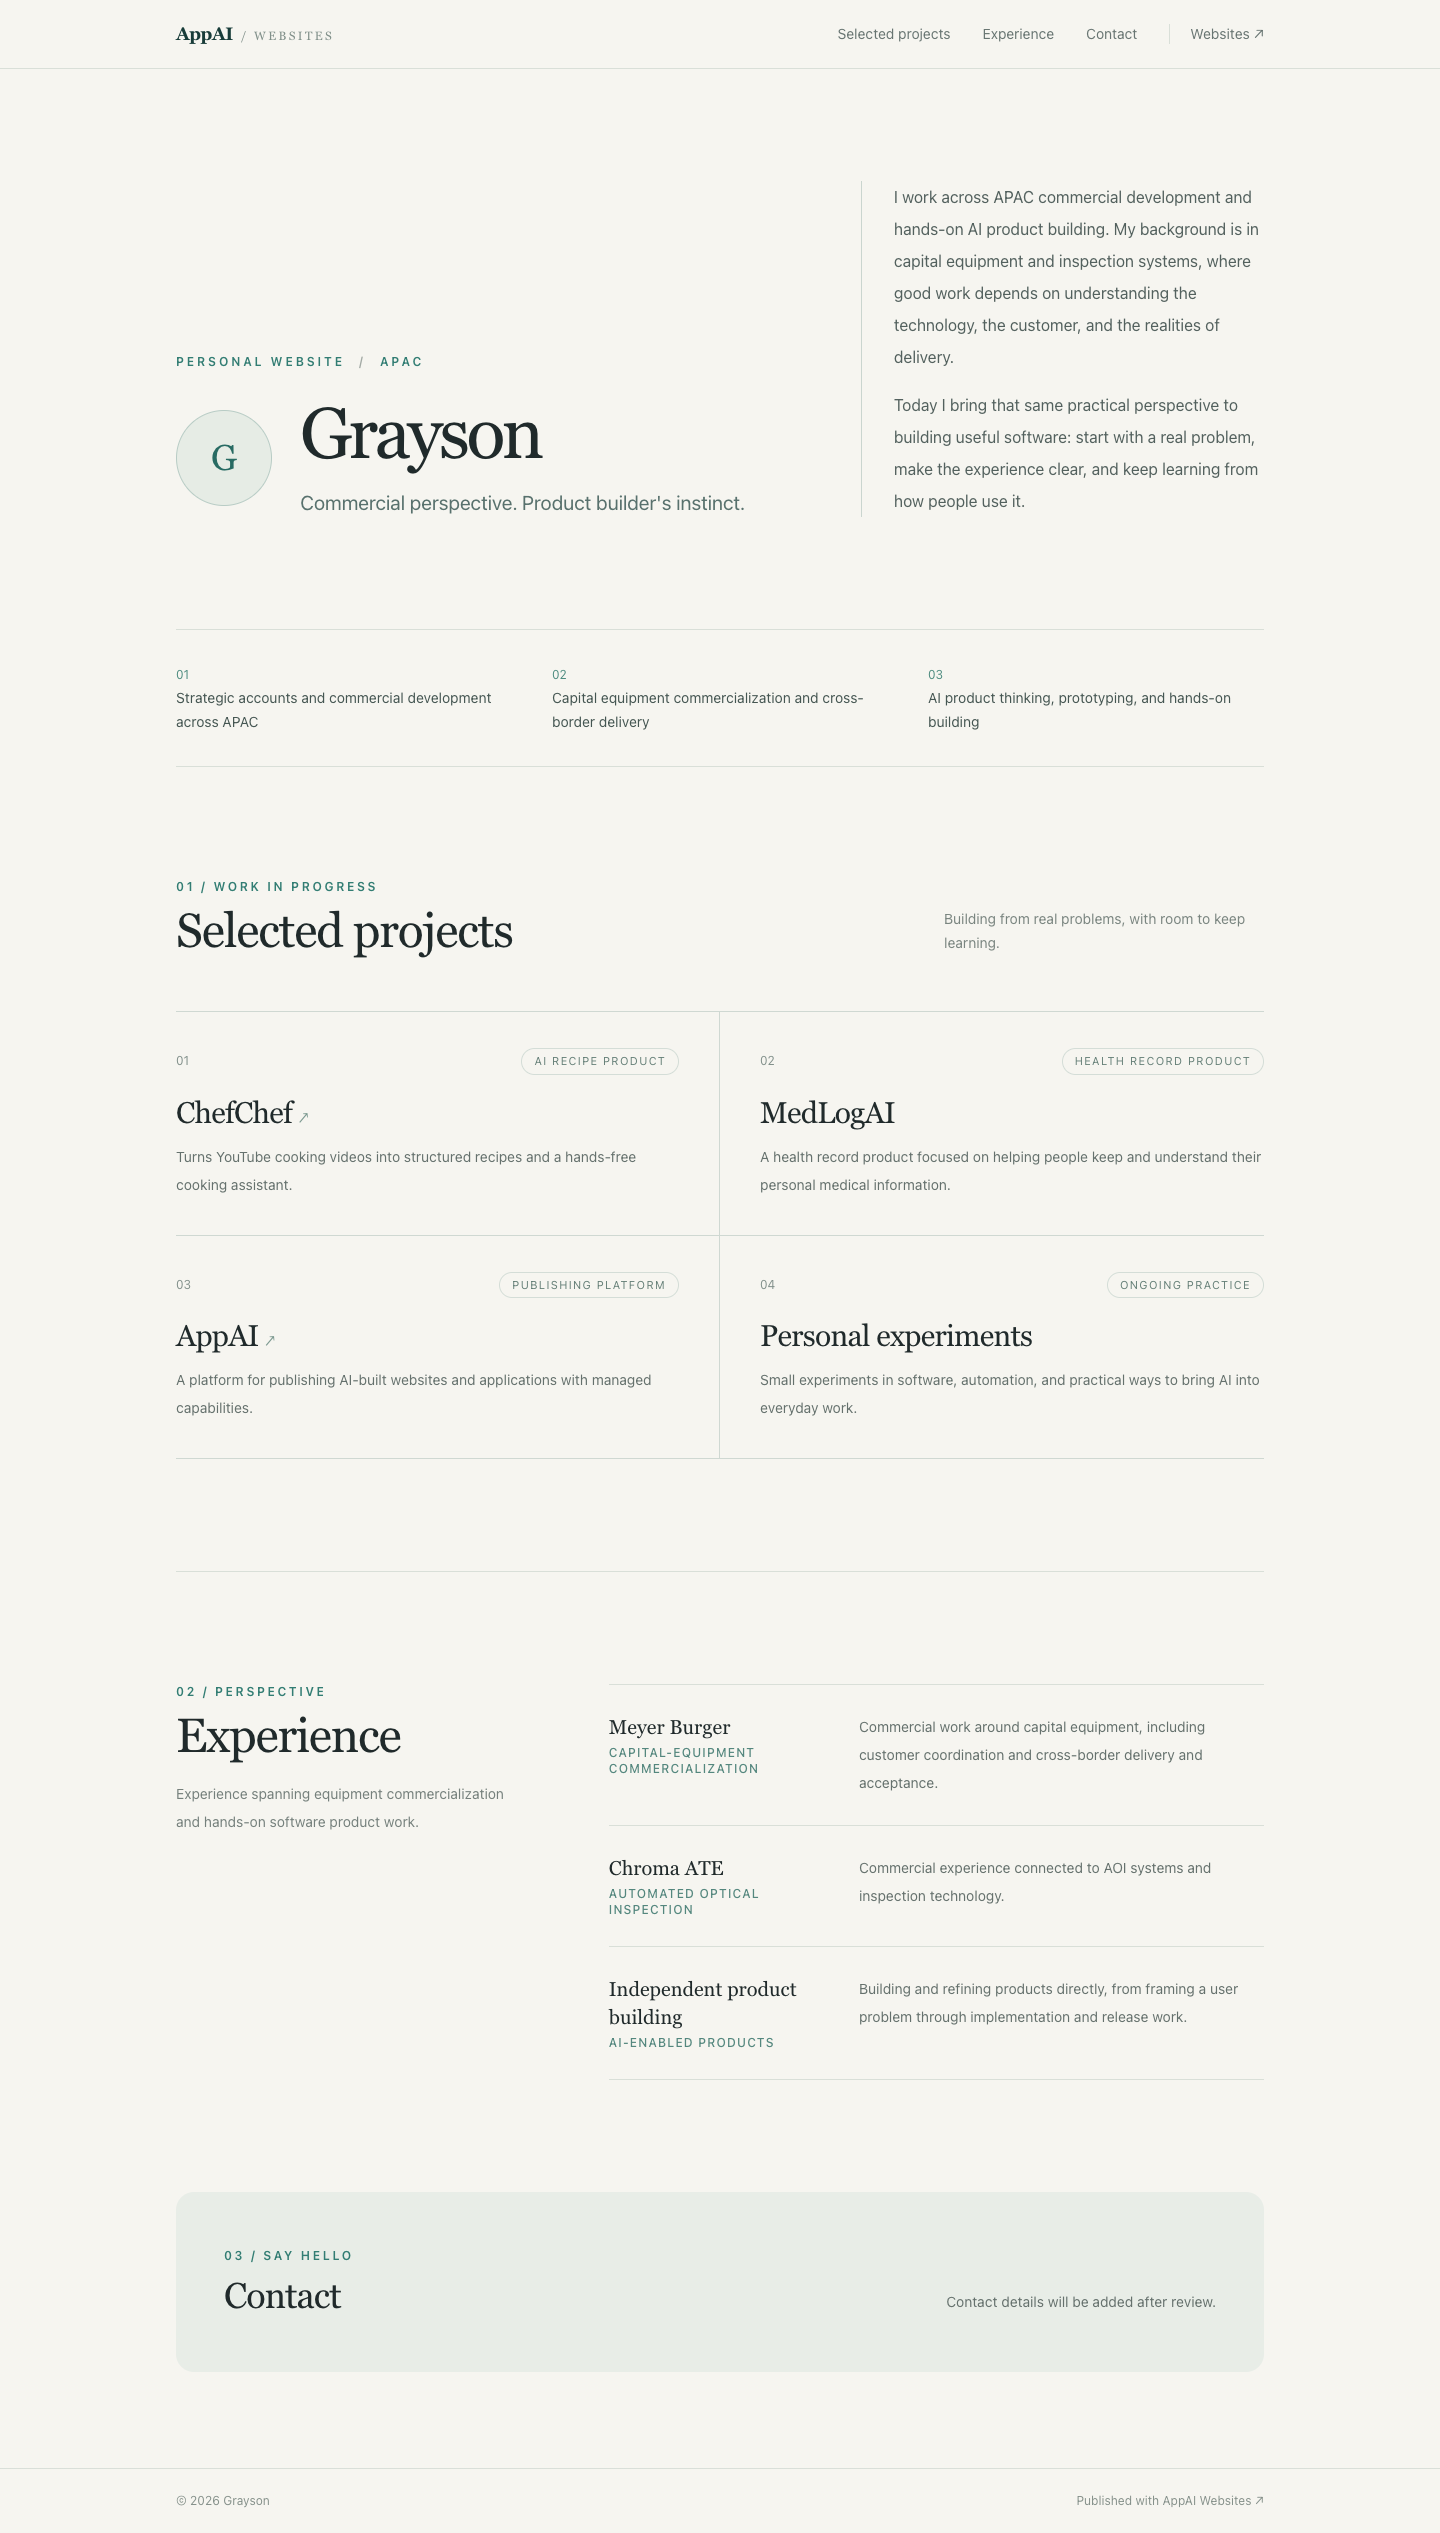
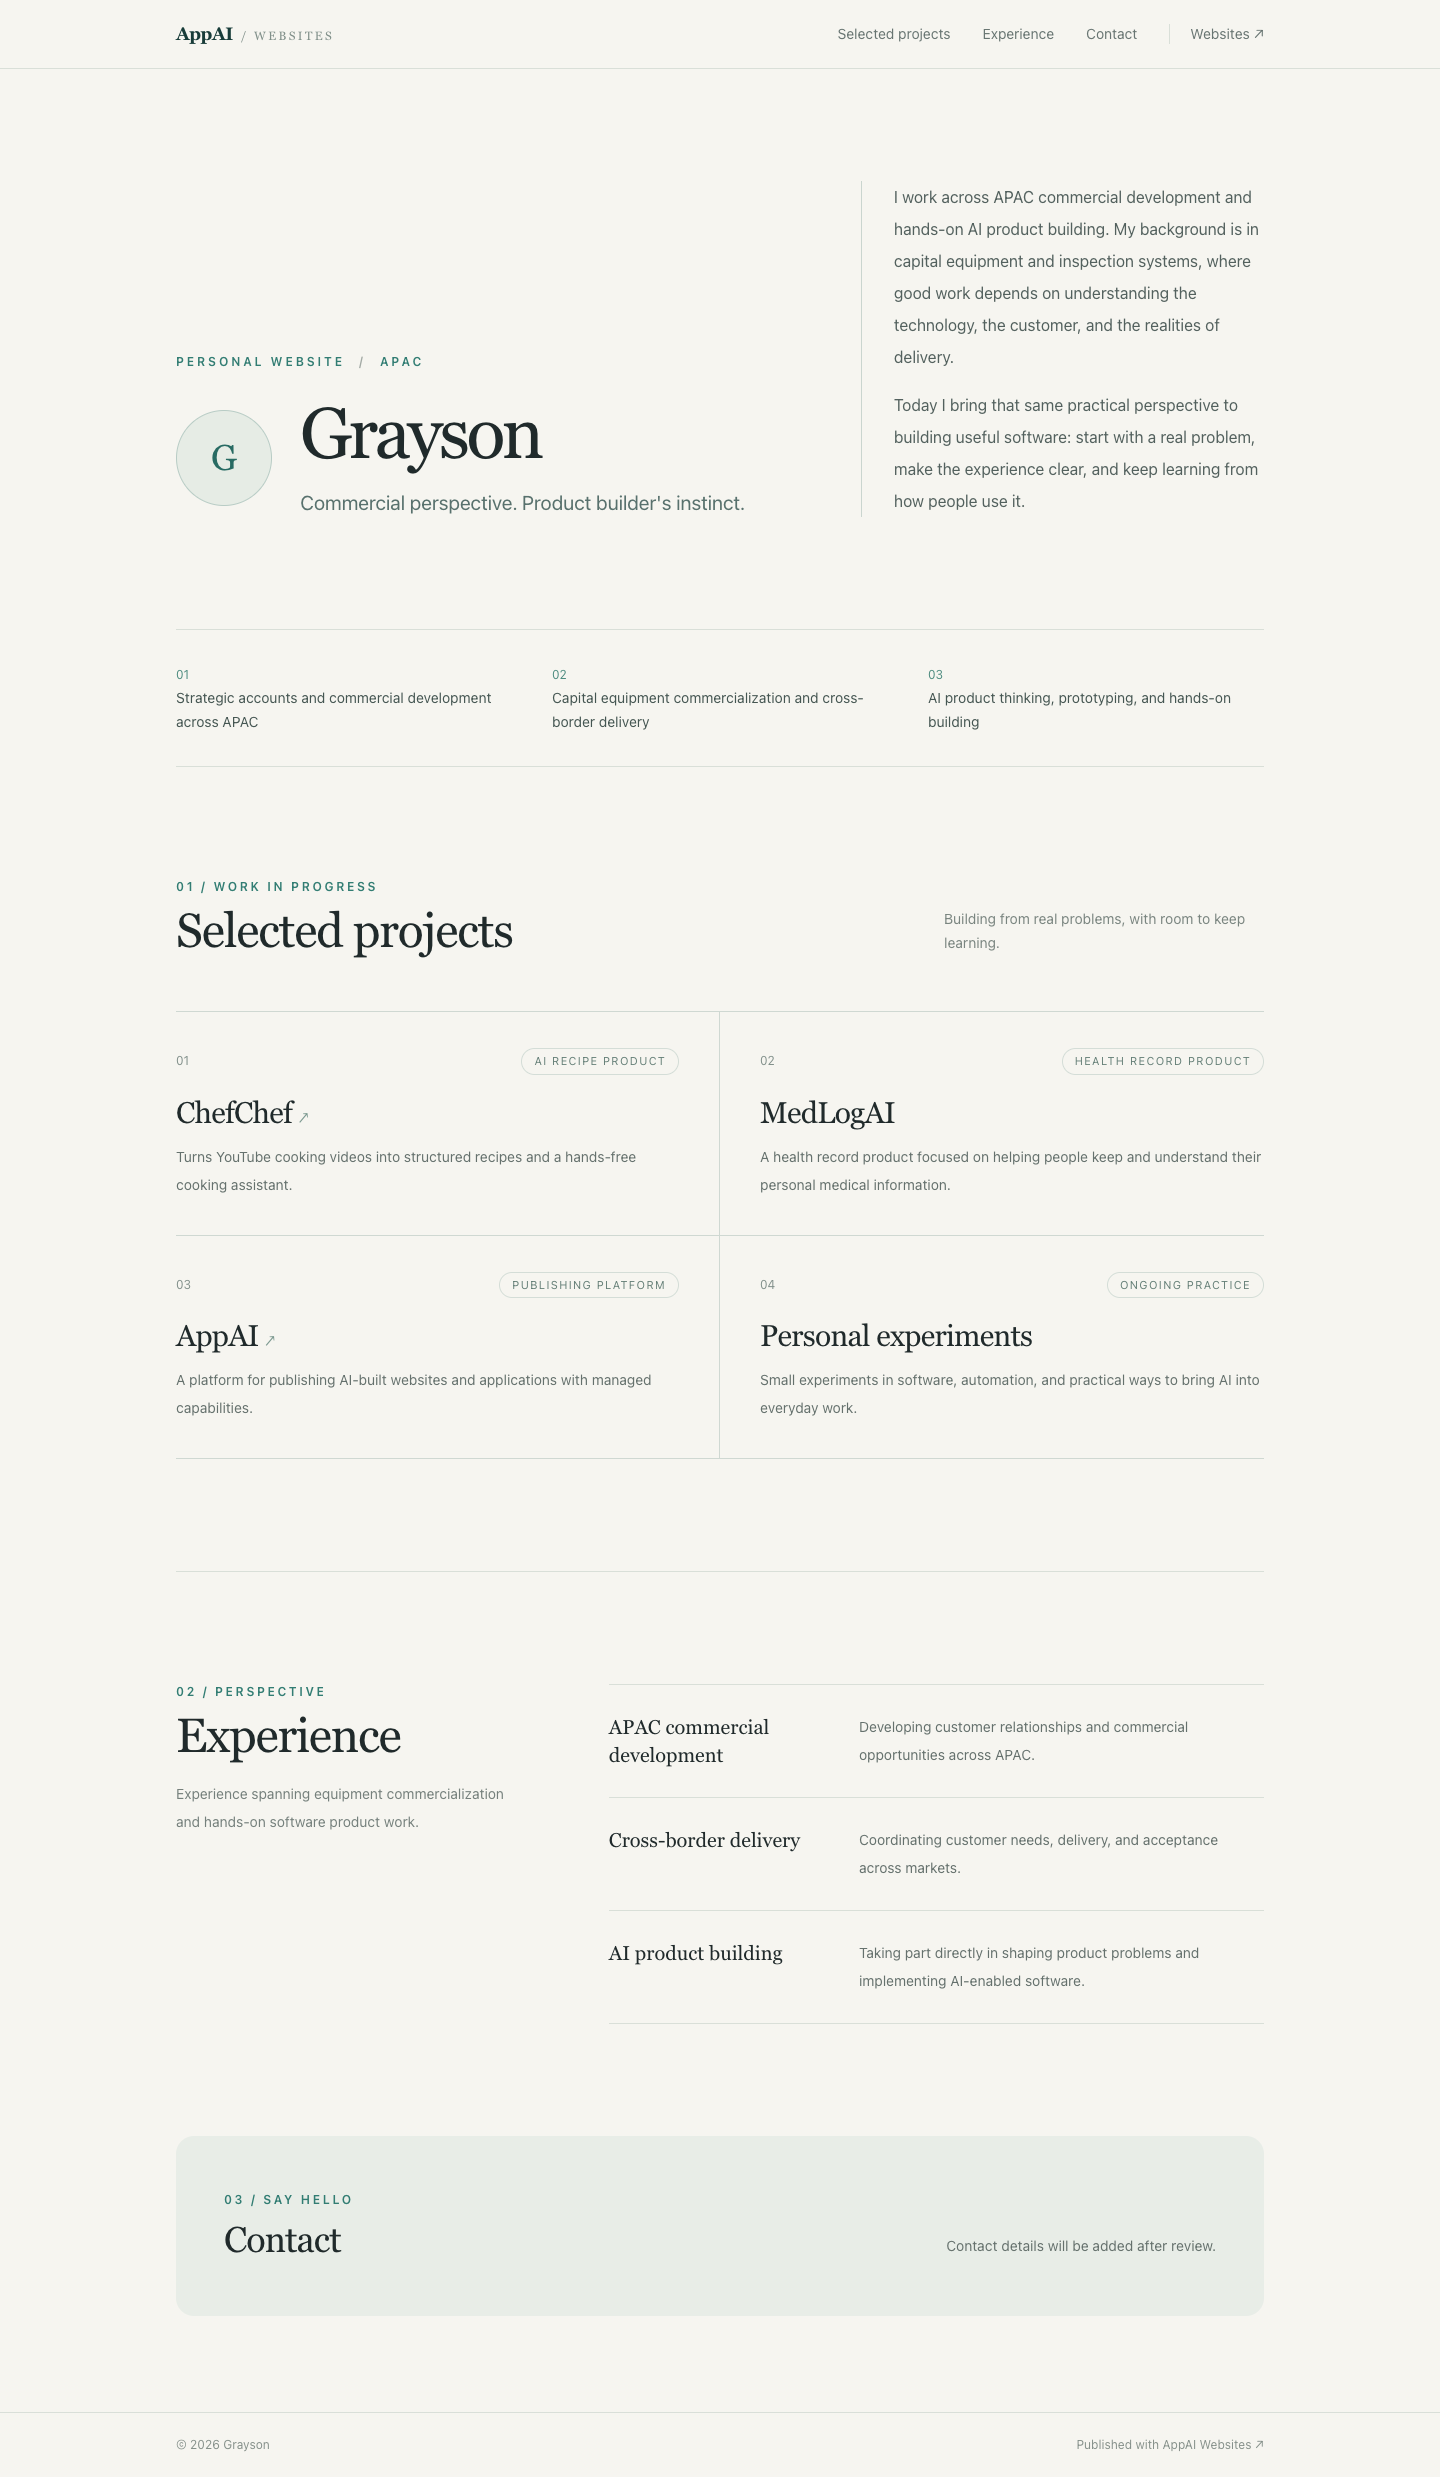
Simplify personal experience into capabilities

diff --git a/src/lib/people.ts b/src/lib/people.ts
@@ -15,8 +15,7 @@ export interface ProfileCopy {
     href: string | null;
   }>;
   experience: Array<{
-    organization: string;
-    area: string;
+    title: string;
     description: string;
   }>;
   contactNote: string;
@@ -88,22 +87,16 @@ const profiles: readonly EditorialProfile[] = [
         ],
         experience: [
           {
-            organization: "Meyer Burger",
-            area: "Capital-equipment commercialization",
-            description:
-              "Commercial work around capital equipment, including customer coordination and cross-border delivery and acceptance.",
+            title: "APAC commercial development",
+            description: "Developing customer relationships and commercial opportunities across APAC.",
           },
           {
-            organization: "Chroma ATE",
-            area: "Automated optical inspection",
-            description:
-              "Commercial experience connected to AOI systems and inspection technology.",
+            title: "Cross-border delivery",
+            description: "Coordinating customer needs, delivery, and acceptance across markets.",
           },
           {
-            organization: "Independent product building",
-            area: "AI-enabled products",
-            description:
-              "Building and refining products directly, from framing a user problem through implementation and release work.",
+            title: "AI product building",
+            description: "Taking part directly in shaping product problems and implementing AI-enabled software.",
           },
         ],
         contactNote: "Contact details will be added after review.",
@@ -149,19 +142,16 @@ const profiles: readonly EditorialProfile[] = [
         ],
         experience: [
           {
-            organization: "Meyer Burger",
-            area: "資本設備商務化",
-            description: "參與資本設備相關商務工作，包括客戶協調、跨境交付與驗收。",
+            title: "亞太商務拓展",
+            description: "透過客戶協作與商務規劃，推進亞太區的商務機會。",
           },
           {
-            organization: "Chroma ATE",
-            area: "自動光學檢測",
-            description: "具備與 AOI 系統及檢測技術相關的商務經驗。",
+            title: "跨境交付",
+            description: "協調不同市場的客戶需求、交付流程與驗收安排。",
           },
           {
-            organization: "獨立產品開發",
-            area: "AI 應用產品",
-            description: "親自投入產品開發與調整，從釐清使用者問題到實作及發布工作。",
+            title: "AI 產品實作",
+            description: "親自參與 AI 軟體產品的問題梳理與功能實作。",
           },
         ],
         contactNote: "聯絡資訊將於確認後補上。",
@@ -207,19 +197,16 @@ const profiles: readonly EditorialProfile[] = [
         ],
         experience: [
           {
-            organization: "Meyer Burger",
-            area: "资本设备商业化",
-            description: "参与资本设备相关商务工作，包括客户协调、跨境交付与验收。",
+            title: "亚太商务拓展",
+            description: "通过客户协作与商务规划，推进亚太区的商务机会。",
           },
           {
-            organization: "Chroma ATE",
-            area: "自动光学检测",
-            description: "具备与 AOI 系统及检测技术相关的商务经验。",
+            title: "跨境交付",
+            description: "协调不同市场的客户需求、交付流程与验收安排。",
           },
           {
-            organization: "独立产品开发",
-            area: "AI 应用产品",
-            description: "亲自投入产品开发与调整，从梳理用户问题到实现及发布工作。",
+            title: "AI 产品实践",
+            description: "亲自参与 AI 软件产品的问题梳理与功能实现。",
           },
         ],
         contactNote: "联系信息将在确认后补充。",

diff --git a/src/app/[locale]/people/[handle]/page.tsx b/src/app/[locale]/people/[handle]/page.tsx
@@ -145,10 +145,9 @@ export default async function PersonalWebsite({ params }: Props) {
             </div>
             <div className="divide-y divide-[#d9dfd8] border-y border-[#d9dfd8]">
               {copy.experience.map((item) => (
-                <article key={item.organization} className="grid gap-2 py-6 sm:grid-cols-[0.7fr_1.3fr] sm:gap-8 sm:py-7">
+                <article key={item.title} className="grid gap-2 py-6 sm:grid-cols-[0.7fr_1.3fr] sm:gap-8 sm:py-7">
                   <div>
-                    <h3 className="font-serif text-xl">{item.organization}</h3>
-                    <p className="mt-1 text-xs font-medium uppercase tracking-[0.1em] text-[#54877e]">{item.area}</p>
+                    <h3 className="font-serif text-xl">{item.title}</h3>
                   </div>
                   <p className="text-sm leading-7 text-[#65716d]">{item.description}</p>
                 </article>

diff --git a/docs/apps/platform-directory-personal-site-qa.md b/docs/apps/platform-directory-personal-site-qa.md
@@ -15,6 +15,9 @@ preview, not deployment to appai.info or the state of the other iMac.
 - First-party `/people/grayson` with English, Traditional Chinese and Simplified
   Chinese copy; other platform locales fall back to English. Content lives in
   `src/lib/people.ts`. Published lookup is shared by page, directory and sitemap.
+- Experience is summarized by capability (APAC commercial development,
+  cross-border delivery and AI product building), without employer names or
+  individual company histories.
 - Website purpose filters collapse on mobile and desktop until requested.
 - X/Twitter daily digest is a future Tool, not a new top-level category or an
   available feature in this release.
